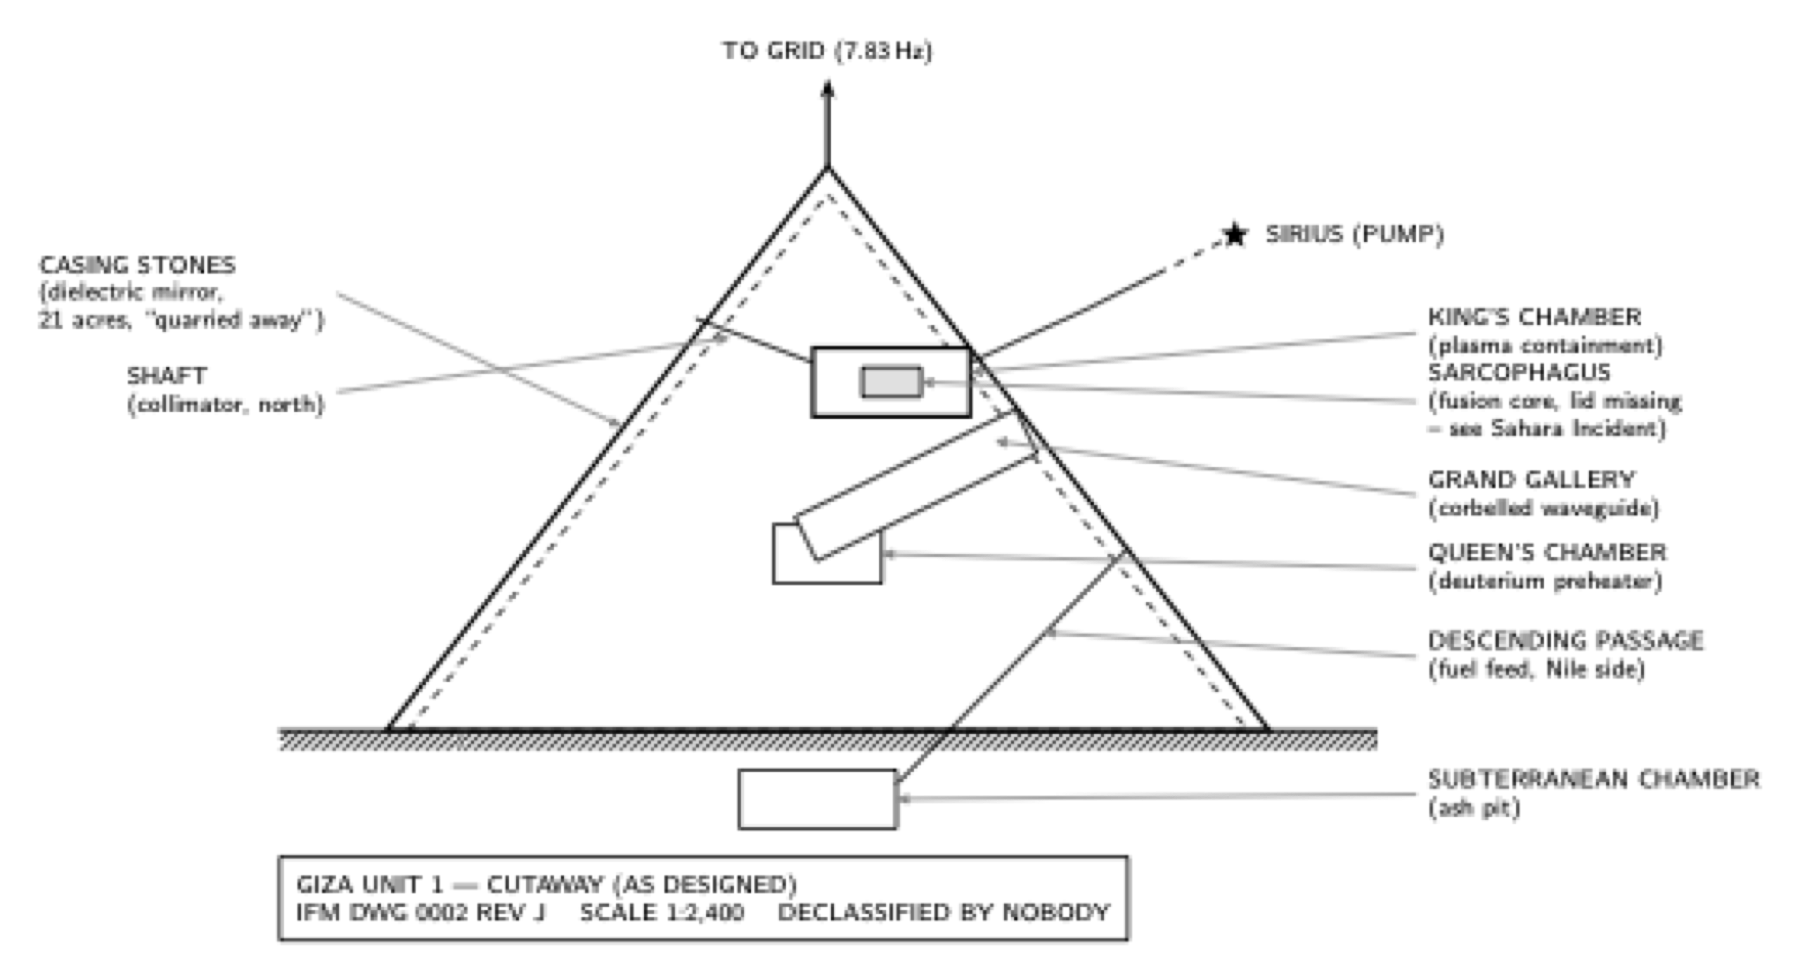
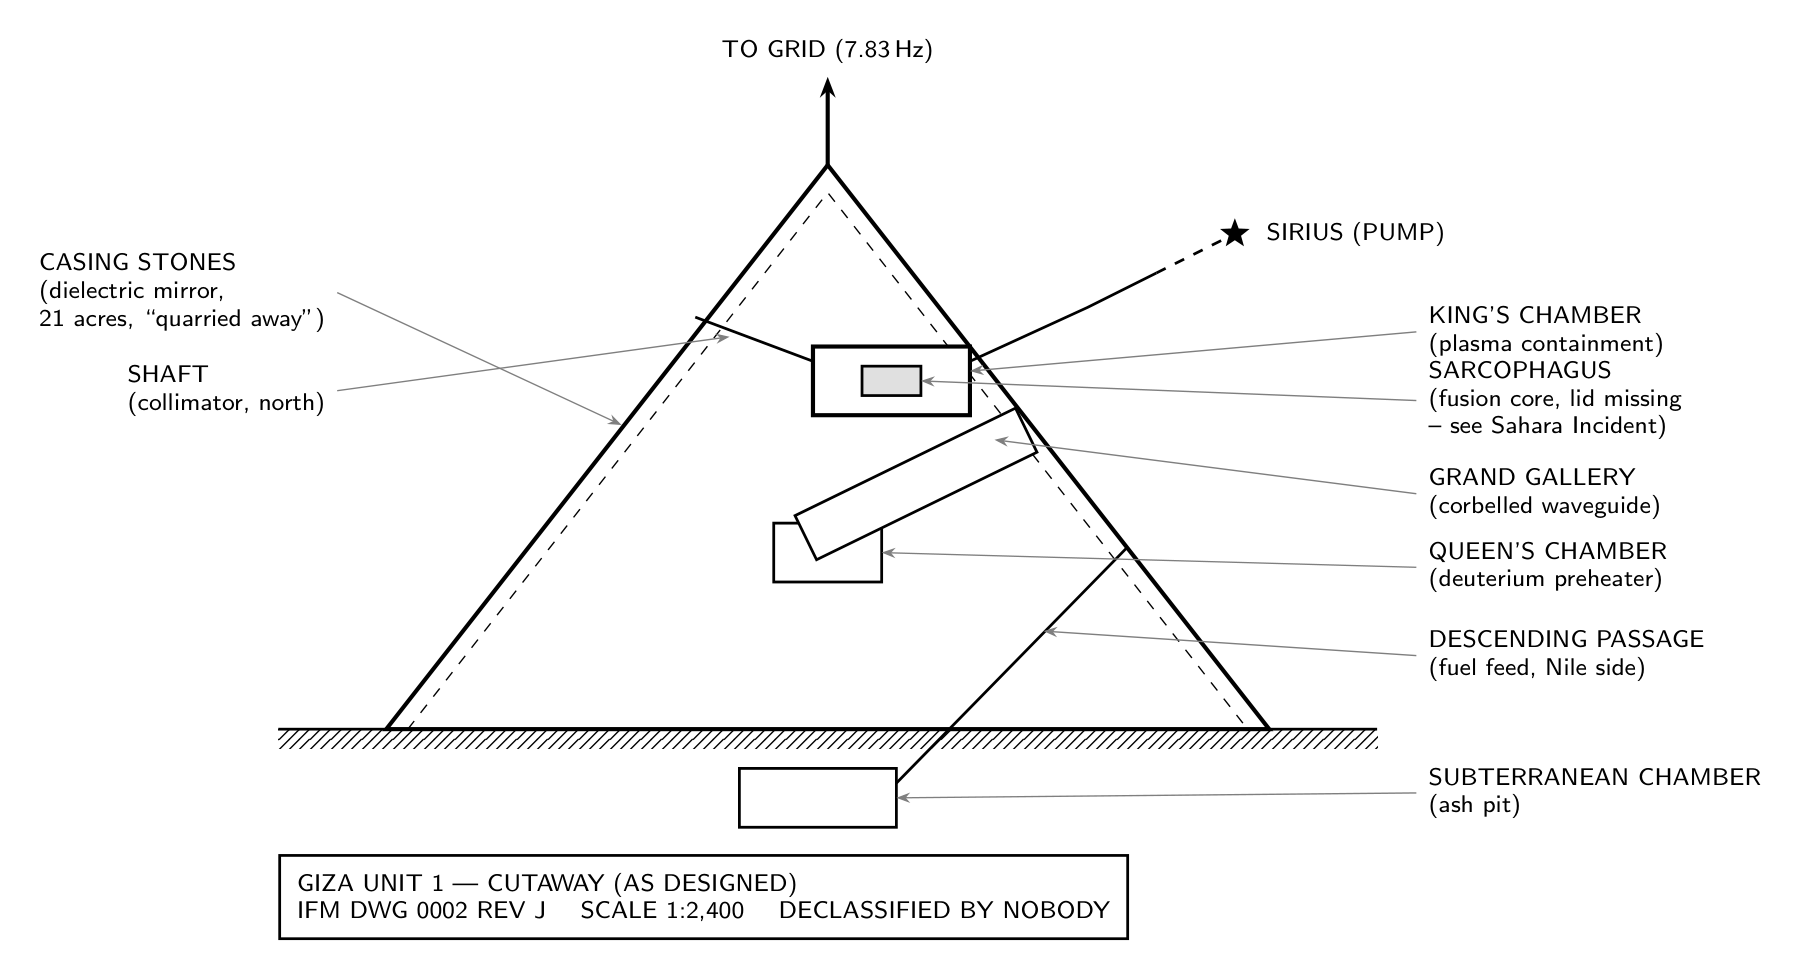
Windows portability: build_tikz.py + build.py replace sips/shell, .gitattributes, requirements.txt, OS-neutral README

diff --git a/scripts/build_tikz.py b/scripts/build_tikz.py
@@ -1,0 +1,68 @@
+"""Compile TikZ sources (book/figures-src/*.tex) to PDF + rasterize to PNG.
+
+Cross-platform (macOS / Linux / Windows) — replaces the old
+pdflatex-then-sips step, since sips exists only on macOS.
+
+Run:  python scripts/build_tikz.py [--width 1800]
+"""
+
+import argparse
+import os
+import shutil
+import subprocess
+import sys
+from pathlib import Path
+
+import fitz  # pymupdf
+
+ROOT = Path(__file__).resolve().parent.parent
+SRC = ROOT / "book" / "figures-src"
+OUT = ROOT / "book" / "figures"
+
+
+def find_tex(cmd="pdflatex"):
+    """Locate a TeX binary: PATH first, then TinyTeX's per-OS install dirs."""
+    hit = shutil.which(cmd)
+    if hit:
+        return hit
+    home = Path.home()
+    candidates = [
+        home / "Library/TinyTeX/bin/universal-darwin" / cmd,  # macOS
+        home / ".TinyTeX/bin/x86_64-linux" / cmd,  # Linux
+        Path(os.environ.get("APPDATA", "")) / "TinyTeX/bin/windows" / f"{cmd}.exe",
+    ]
+    for c in candidates:
+        if c.exists():
+            return str(c)
+    sys.exit(
+        f"{cmd} not found. Install TinyTeX (`quarto install tinytex`) "
+        "or put a TeX distribution on PATH."
+    )
+
+
+def main():
+    ap = argparse.ArgumentParser()
+    ap.add_argument("--width", type=int, default=1800, help="PNG pixel width")
+    args = ap.parse_args()
+    pdflatex = find_tex()
+
+    for tex in sorted(SRC.glob("*.tex")):
+        proc = subprocess.run(
+            [pdflatex, "-interaction=nonstopmode", tex.name],
+            cwd=SRC,
+            capture_output=True,
+            text=True,
+        )
+        if proc.returncode != 0:
+            print(proc.stdout[-2000:])
+            sys.exit(f"pdflatex failed on {tex.name} (see log tail above)")
+        pdf = tex.with_suffix(".pdf")
+        shutil.copy(pdf, OUT / pdf.name)
+        page = fitz.open(pdf)[0]
+        pix = page.get_pixmap(matrix=fitz.Matrix(*(args.width / page.rect.width,) * 2))
+        pix.save(OUT / f"{tex.stem}.png")
+        print(f"{tex.name} → {pdf.name} + {tex.stem}.png ({pix.width}x{pix.height})")
+
+
+if __name__ == "__main__":
+    main()

diff --git a/latex-shootout/build.py b/latex-shootout/build.py
@@ -1,0 +1,56 @@
+"""Build the memoir shootout chapter — cross-platform.
+
+Runs pdflatex twice (for cross-references) into build/. We deliberately
+skip latexmk: TinyTeX on Windows ships no perl, which latexmk requires.
+
+Run:  python build.py
+"""
+
+import os
+import shutil
+import subprocess
+import sys
+from pathlib import Path
+
+HERE = Path(__file__).resolve().parent
+BUILD = HERE / "build"
+
+
+def find_tex(cmd="pdflatex"):
+    hit = shutil.which(cmd)
+    if hit:
+        return hit
+    home = Path.home()
+    candidates = [
+        home / "Library/TinyTeX/bin/universal-darwin" / cmd,  # macOS
+        home / ".TinyTeX/bin/x86_64-linux" / cmd,  # Linux
+        Path(os.environ.get("APPDATA", "")) / "TinyTeX/bin/windows" / f"{cmd}.exe",
+    ]
+    for c in candidates:
+        if c.exists():
+            return str(c)
+    sys.exit(
+        f"{cmd} not found. Install TinyTeX (`quarto install tinytex`) "
+        "or put a TeX distribution on PATH."
+    )
+
+
+def main():
+    BUILD.mkdir(exist_ok=True)
+    pdflatex = find_tex()
+    for _pass in (1, 2):
+        proc = subprocess.run(
+            [pdflatex, "-interaction=nonstopmode", "-output-directory=build",
+             "giza-memoir.tex"],
+            cwd=HERE,
+            capture_output=True,
+            text=True,
+        )
+        if proc.returncode != 0 and not (BUILD / "giza-memoir.pdf").exists():
+            print(proc.stdout[-2000:])
+            sys.exit("pdflatex failed (see log tail above)")
+    print(f"→ {BUILD / 'giza-memoir.pdf'}")
+
+
+if __name__ == "__main__":
+    main()

diff --git a/README.md b/README.md
@@ -20,18 +20,27 @@ This repo is two things at once:
    citations, cross-references, TikZ figures), a valid EPUB3 with cover,
    and a searchable HTML site. Total tooling cost: $0, no sudo.
 
-## Build
+## Build (macOS / Linux / Windows)
+
+Everything is Python + Quarto — both first-class on all three OSes.
+On Windows, run the same commands in PowerShell (use `py` if `python`
+isn't on PATH).
 
 ```sh
-pip install quarto-cli          # or brew install --cask quarto
-quarto install tinytex          # ~150 MB LaTeX, self-managing
+python -m pip install -r requirements.txt   # quarto-cli, matplotlib, numpy, pymupdf
+quarto install tinytex                      # ~150 MB LaTeX, self-managing, no admin rights
 
-python scripts/make_figures.py  # regenerate figures (matplotlib)
-cd book && quarto render        # → _book/  (PDF + EPUB + HTML)
+python scripts/make_figures.py              # regenerate matplotlib figures
+python scripts/build_tikz.py                # compile TikZ diagrams → PDF + PNG
+cd book && quarto render                    # → _book/  (PDF + EPUB + HTML)
 ```
 
-The hand-typeset comparison chapter: `latex-shootout/build.sh` (memoir
-class — drop caps, margin notes, custom chapter opener).
+All generated figures are committed, so `quarto render` works out of the
+box — the two figure scripts are only needed when *editing* figures.
+
+The hand-typeset comparison chapter: `python latex-shootout/build.py`
+(memoir class — drop caps, margin notes, custom chapter opener).
+`build.sh` remains as a wrapper for Unix muscle memory.
 
 ## Layout
 

diff --git a/NOTES.md b/NOTES.md
@@ -71,6 +71,22 @@ graft memoir-style typography into Quarto via `template-partials` /
 `include-in-header` — same source, upgraded page. Or pay Vellum $249 for
 the look with zero effort (see PUBLISHING.md).
 
+## Windows-portability pass (2026-07-02)
+
+The pipeline was born on macOS; two Unix-isms had crept in and are now
+gone, so a Windows (or Linux) collaborator can build everything:
+
+- `sips` (macOS-only) rasterized the TikZ PDF → replaced by
+  `scripts/build_tikz.py` using **pymupdf** — one rasterizer, all OSes.
+- `latex-shootout/build.sh` (shell + hardcoded mac TinyTeX path) →
+  `build.py`, which finds TeX via PATH then TinyTeX's per-OS locations.
+  It runs pdflatex twice instead of latexmk: **TinyTeX on Windows ships
+  no perl, and latexmk is a perl script.**
+- `.gitattributes` pins line endings (`* text=auto`, LF for `.sh`) so
+  CRLF checkouts don't dirty `.qmd`/`.tex` diffs.
+- `requirements.txt` covers the whole Python side, including quarto-cli
+  itself (`pip install quarto-cli` works on Windows too — no admin).
+
 ## Deferred / untested
 
 - `epubcheck` locally (wants Java ~600 MB; KDP/D2D validate server-side).

diff --git a/CLAUDE.md b/CLAUDE.md
@@ -42,8 +42,11 @@ book_test/
 ├── CLAUDE.md           ← you are here (STATUS above)
 ├── NOTES.md            ← process findings: what worked, what fought back
 ├── PUBLISHING.md       ← where/how to publish; KDP/IngramSpark/D2D specs
+├── requirements.txt    ← full Python deps (cross-platform)
 ├── scripts/
-│   └── make_figures.py ← all matplotlib figures (run with ~/dkn314/bin/python)
+│   ├── make_figures.py ← all matplotlib figures (run with ~/dkn314/bin/python)
+│   ├── make_social.py  ← platform assets (thumbnails, cards, banners)
+│   └── build_tikz.py   ← TikZ → PDF+PNG, cross-platform (pymupdf, no sips)
 ├── book/               ← the Quarto book project
 │   ├── _quarto.yml     ← single source of truth: formats, trim size, chapters
 │   ├── index.qmd       ← preface + satire disclaimer